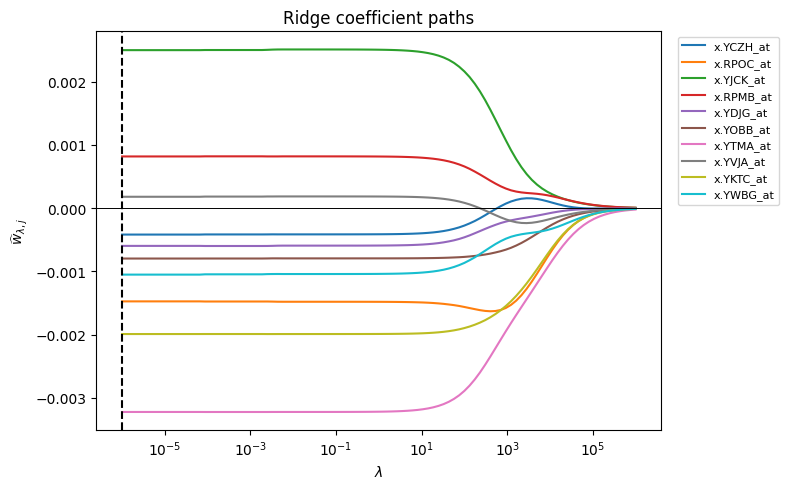
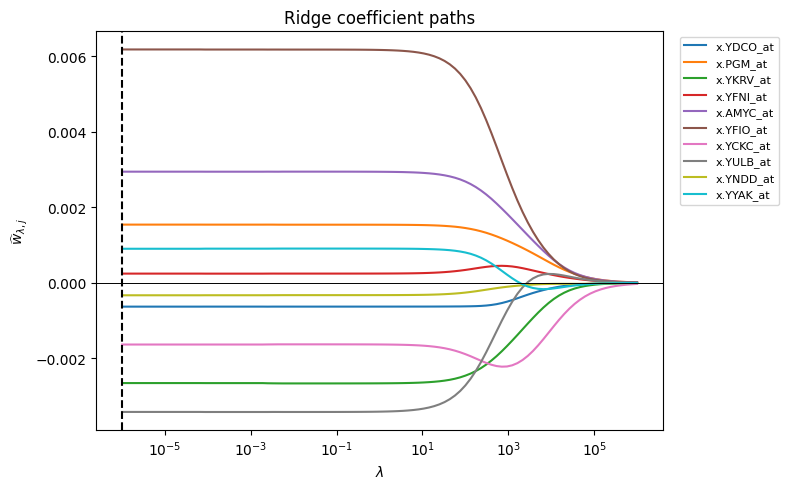
updated lasso in html

diff --git a/docs/lectures/010_lasso.html b/docs/lectures/010_lasso.html
@@ -543,7 +543,7 @@ window.Quarto = {
     <div>
     <div class="quarto-title-meta-heading">Modified</div>
     <div class="quarto-title-meta-contents">
-      <p class="date-modified">September 14, 2026</p>
+      <p class="date-modified">October 1, 2026</p>
     </div>
   </div>
     
@@ -798,24 +798,12 @@ f(x)=\max\{|x|-1,0\}.
 </section>
 <section id="coordinate-descent-setup" class="level3" data-number="11.2.2">
 <h3 data-number="11.2.2" class="anchored" data-anchor-id="coordinate-descent-setup"><span class="header-section-number">11.2.2</span> Coordinate Descent Setup</h3>
-<p><strong>Coordinate descent</strong> updates one coefficient while holding all the others fixed:</p>
-<ul>
-<li>Initialize <span class="math inline">\(w\)</span>.</li>
-<li>For <span class="math inline">\(t=1,2,3,\ldots\)</span>:
-<ul>
-<li>For <span class="math inline">\(j=1,\ldots,D\)</span>:
-<ol type="1">
-<li>Choose <span class="math inline">\(\gamma_j\in\partial_j J_\lambda(w)\)</span>.</li>
-<li>Update <span class="math display">\[
-w_j\leftarrow w_j-\eta_t \gamma_j.
-\]</span></li>
-</ol></li>
-</ul></li>
-</ul>
-<p>The updates occur in place. If <span class="math inline">\(J_\lambda\)</span> is differentiable, then <span class="math display">\[
-  \gamma_j=\frac{\partial J_\lambda(w)}{\partial w_j}.
-  \]</span></p>
-<p>Coordinate descent is guaranteed to converge under standard conditions when the objective is convex and separable across coordinates in its nonsmooth part, as it is for LASSO.</p>
+<p>Coordinate descent handles an optimization problem in several coefficients by solving one coefficient at a time. Starting from an initial vector <span class="math inline">\(w\)</span>, we cycle through <span class="math inline">\(j=1,\ldots,D\)</span>. For each <span class="math inline">\(j\)</span>, we hold the other coefficients at their current values and replace <span class="math inline">\(w_j\)</span> with the value that minimizes the objective along that coordinate: <span class="math display">\[
+  w_j \leftarrow
+  \arg\min_{u\in\mathbb R}
+  J_\lambda(w_1,\ldots,w_{j-1},u,w_{j+1},\ldots,w_D).
+\]</span></p>
+<p>Updates happen in place, so each coordinate uses the latest values of the others. Each update can only lower or leave unchanged the objective, since the old value of <span class="math inline">\(w_j\)</span> is one of the available choices. For LASSO, we will find that one-dimensional minimum using the subgradient optimality condition.</p>
 <p>To do this for LASSO, suppose we are updating <span class="math inline">\(w_j\)</span>, and write <span class="math inline">\(X_{:j}\)</span> for feature column <span class="math inline">\(j\)</span>. Define the partial residual <span class="math display">\[
 r_j
 =y-\sum_{\ell\ne j}X_{:\ell}w_\ell.

diff --git a/docs/index.html b/docs/index.html
@@ -7,7 +7,7 @@
 <meta name="viewport" content="width=device-width, initial-scale=1.0, user-scalable=yes">
 
 <meta name="author" content="Gregory Hunt">
-<meta name="dcterms.date" content="2026-09-29">
+<meta name="dcterms.date" content="2026-10-20">
 
 <title>Statistical Learning</title>
 <style>
@@ -460,7 +460,7 @@ ul.task-list li input[type="checkbox"] {
     <div>
     <div class="quarto-title-meta-heading">Published</div>
     <div class="quarto-title-meta-contents">
-      <p class="date">September 29, 2026</p>
+      <p class="date">October 20, 2026</p>
     </div>
   </div>
   

diff --git a/docs/lectures/009_ridge.html b/docs/lectures/009_ridge.html
@@ -922,7 +922,7 @@ w_1X_{:1}+w_2X_{:2}
 </details>
 <div class="cell-output cell-output-display">
 <script type="application/vnd.jupyter.widget-view+json">
-{"model_id":"7cd87eb6a12e4edba3e7c0544b612b50","version_major":2,"version_minor":0,"quarto_mimetype":"application/vnd.jupyter.widget-view+json"}
+{"model_id":"02e64acc13da4f279cfefc9d42c6426e","version_major":2,"version_minor":0,"quarto_mimetype":"application/vnd.jupyter.widget-view+json"}
 </script>
 </div>
 </div>
